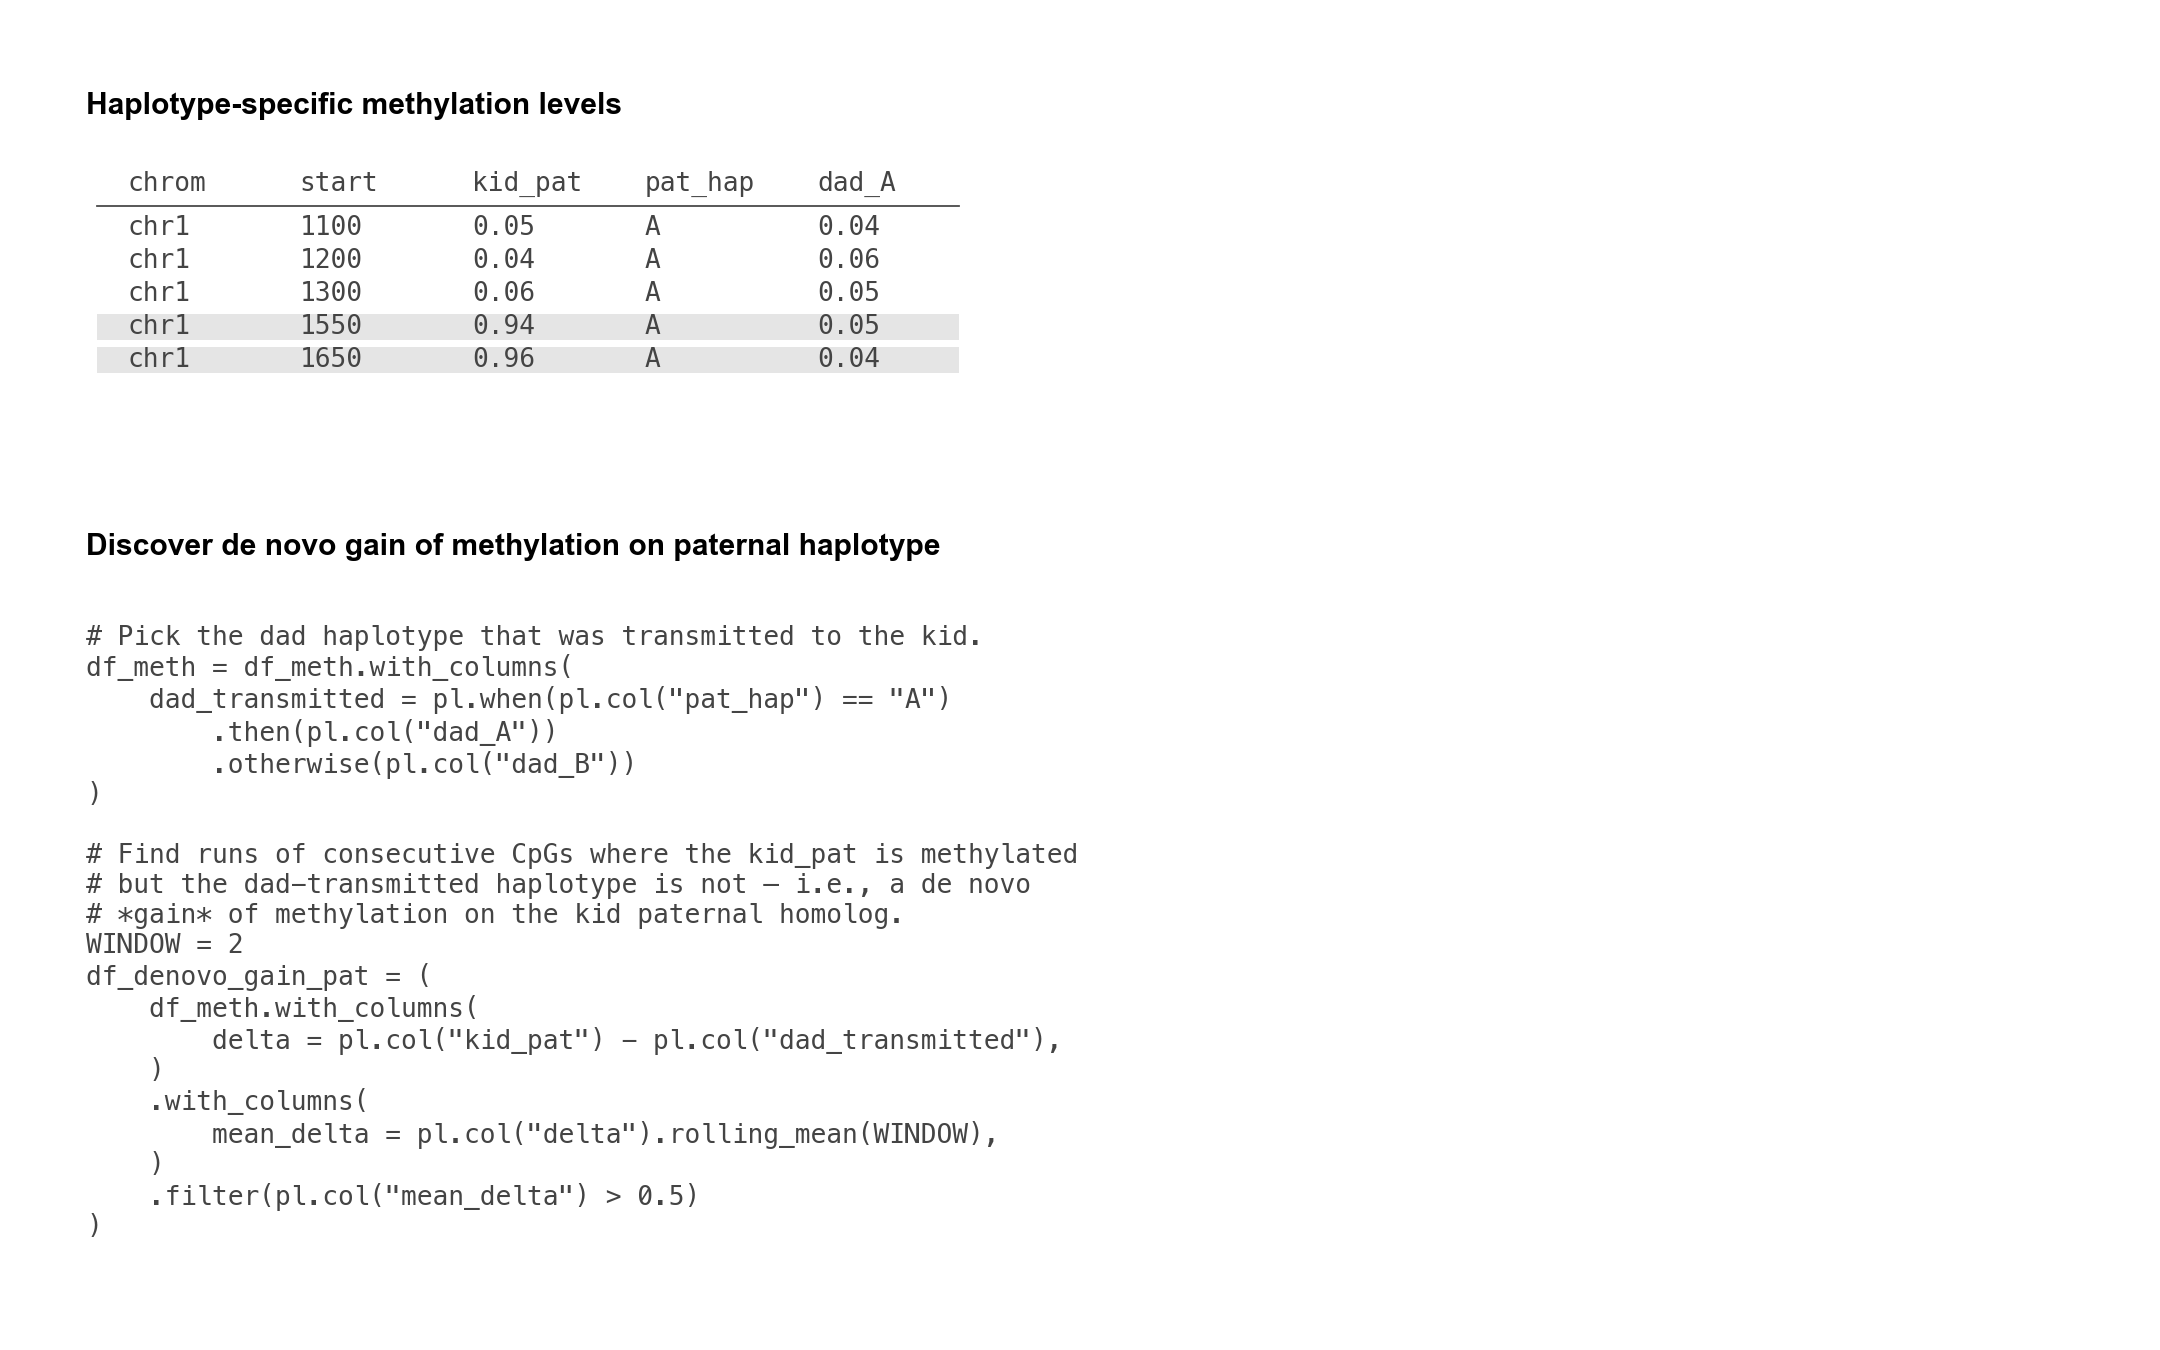
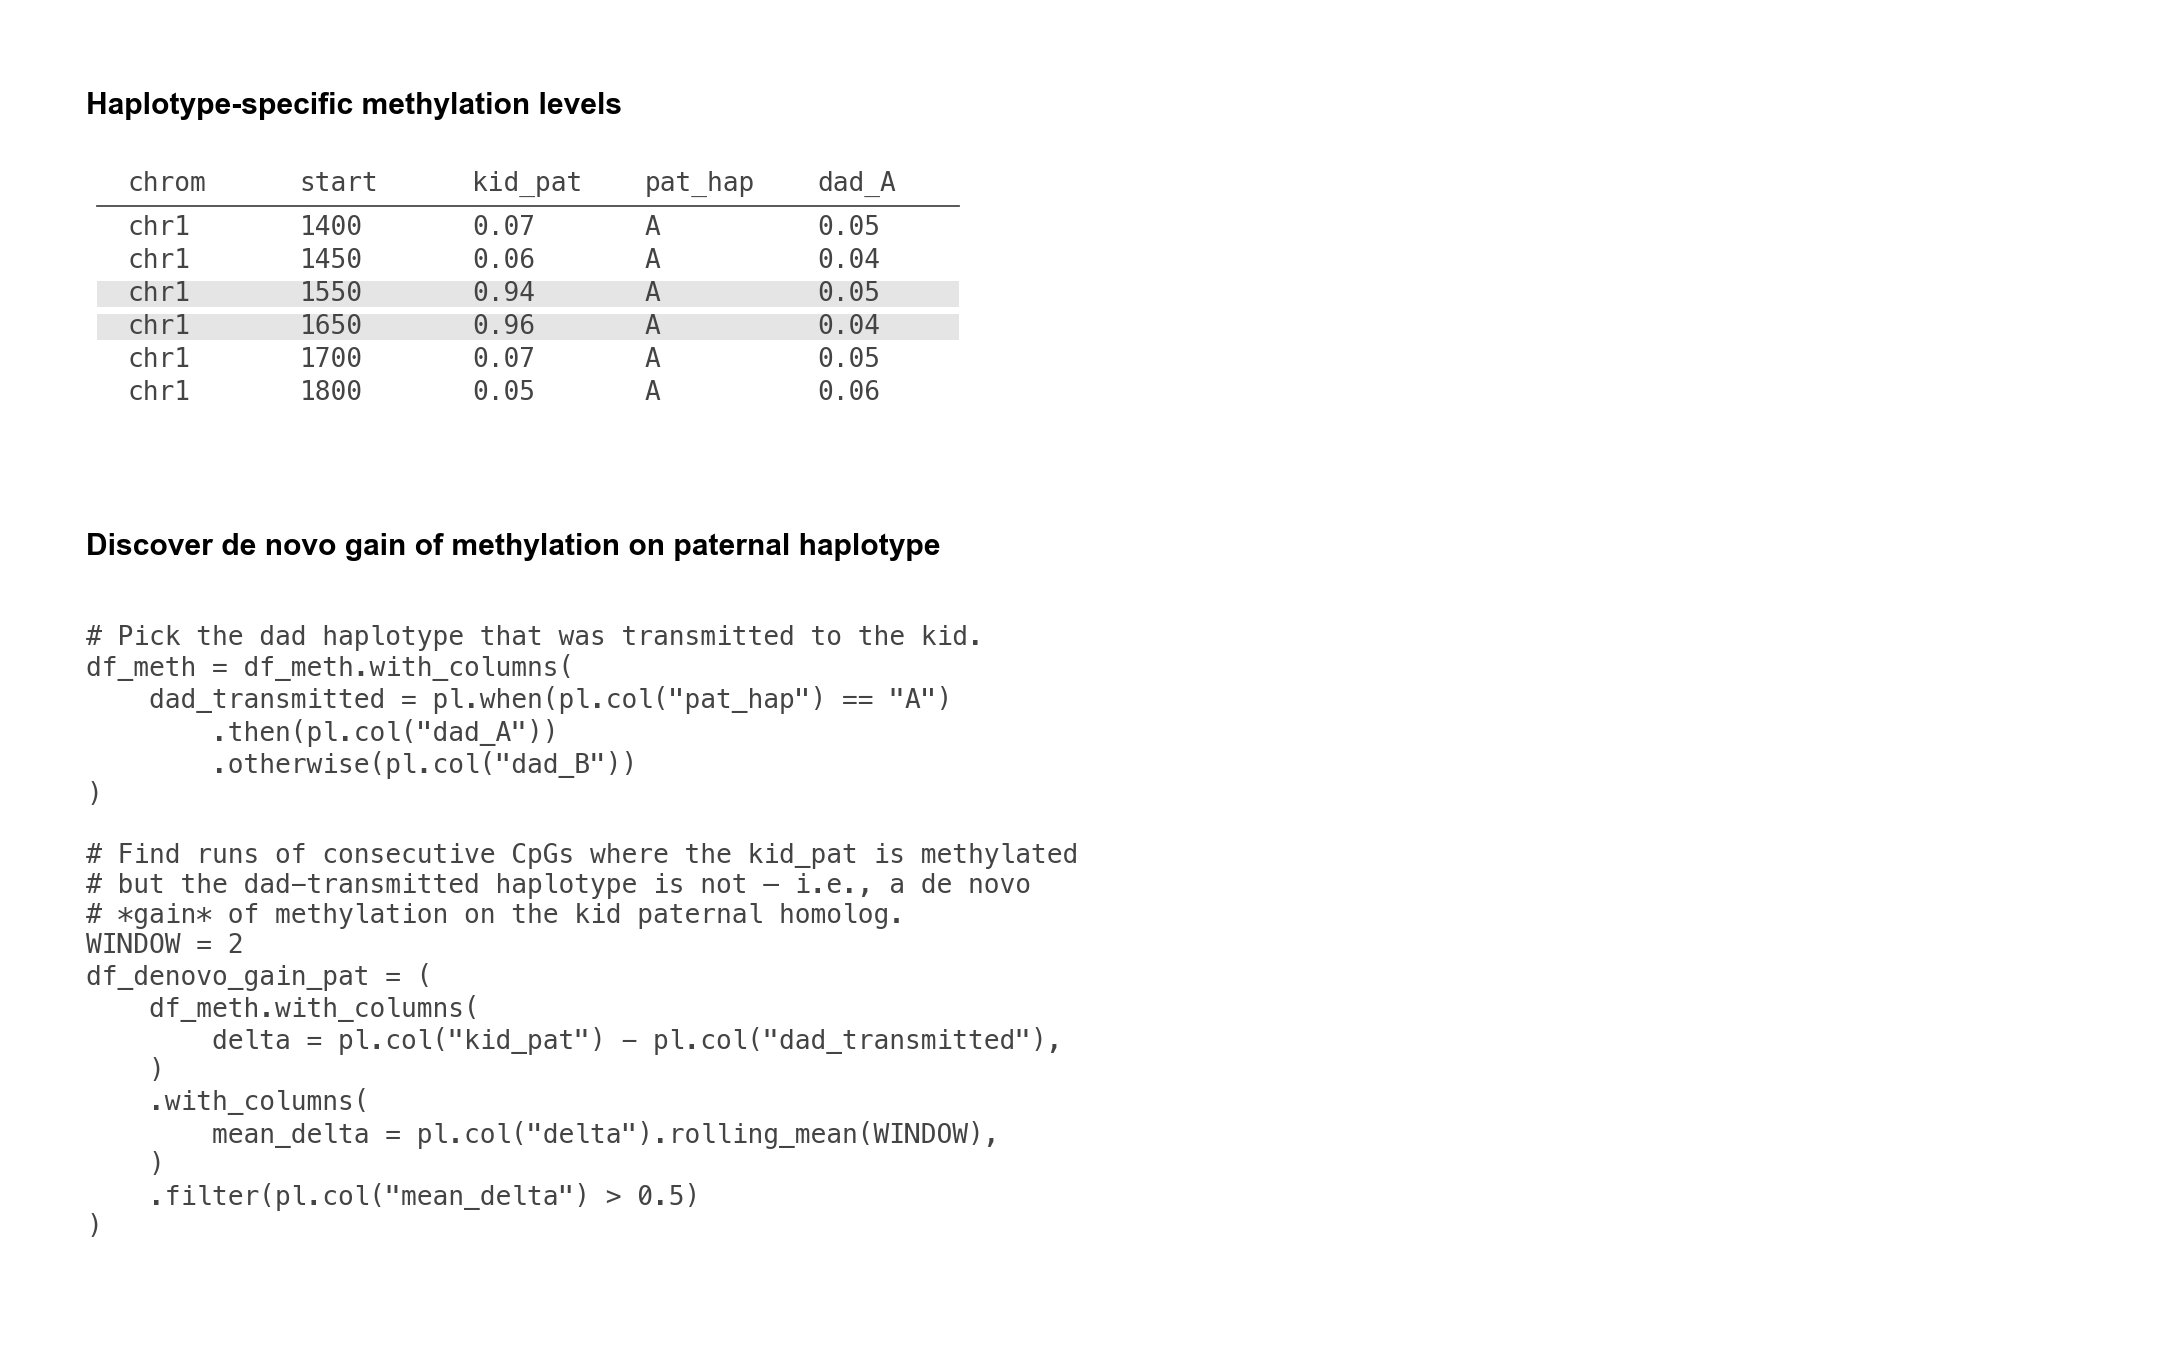
Wiki motivation: extend trio table rows so highlighted rows read as discoveries
The de novo methylation table and the compound het meth + genotype
tables previously had every (or nearly every) row highlighted, which
made the highlighted rows read as the entire dataset rather than as
the discovered locus inside a baseline window. Pad each table with
non-discovery rows on either side of the highlight, and update the
highlight index sets accordingly.

- DENOVO_TABLE_ROWS: 5 -> 6 rows; introduce DENOVO_TABLE_HIGHLIGHT={2,3}
  (2 baseline / 2 discovery / 2 baseline) and use it from both
  render_trio_denovo_meth_table and render_trio_denovo_bed.
- COMPOUND_METH_ROWS: 3 -> 7 rows; highlight {2,3,4} (2 / 3 / 2).
- COMPOUND_GENO_ROWS: 1 -> 5 rows; highlight {2}; the 4 baseline SNVs
  carry an ALT on dad_B that the kid does not inherit (kid_pat=0),
  contrasting with the discovery row where the ALT is on dad_A and is
  inherited.
- render_trio_compound_het_tables now computes METH_CONTENT_BOTTOM_FRAC
  (and figure height) from the meth row count so the geno table no
  longer overlaps when extra meth rows are added; the wiki renderer
  (render_trio_compound_het_bed) was already row-count-agnostic.
- Add render_rebucket_panel: a small two-sub-table cartoon used by
  Fig 3 to illustrate the hap1/hap2 -> pat/mat + founder-letter
  relabel from the wiki "Relabelling per-CpG methylation" section.
  Pure addition; not wired into the wiki.
- Regenerate trio_denovo_bed.png and trio_compound_het_bed.png so the
  wiki PNGs match the new row data.
[…]

Changed region(s): [[0.031, 0.1867, 0.4653, 0.3111]]

diff --git a/wiki/motivation/trio_discovery.py b/wiki/motivation/trio_discovery.py
@@ -430,12 +430,14 @@ def build(scenario: Scenario, label_fontsize: int = 16,
 DENOVO_TABLE_TITLE = "Haplotype-specific methylation levels"
 DENOVO_TABLE_COLS = ("chrom", "start", "kid_pat", "pat_hap", "dad_A")
 DENOVO_TABLE_ROWS = [
-    ("chr1", "1100", "0.05", "A", "0.04"),
-    ("chr1", "1200", "0.04", "A", "0.06"),
-    ("chr1", "1300", "0.06", "A", "0.05"),
+    ("chr1", "1400", "0.07", "A", "0.05"),
+    ("chr1", "1450", "0.06", "A", "0.04"),
     ("chr1", "1550", "0.94", "A", "0.05"),
     ("chr1", "1650", "0.96", "A", "0.04"),
+    ("chr1", "1700", "0.07", "A", "0.05"),
+    ("chr1", "1800", "0.05", "A", "0.06"),
 ]
+DENOVO_TABLE_HIGHLIGHT = {2, 3}
 DENOVO_CODE_TITLE = "Discover de novo gain of methylation on paternal haplotype"
 DENOVO_CODE = (
     '# Pick the dad haplotype that was transmitted to the kid.\n'
@@ -474,7 +476,7 @@ def render_trio_denovo_meth_table(out_path: Path | None = None,
     _draw_simple_table(
         ax, DENOVO_TABLE_COLS, DENOVO_TABLE_ROWS,
         title=DENOVO_TABLE_TITLE if show_title else "",
-        highlight_rows={3, 4},
+        highlight_rows=DENOVO_TABLE_HIGHLIGHT,
         bottom_rule=False,
         col_dx=col_dx,
         cell_fontsize=cell_fontsize,
@@ -616,7 +618,7 @@ def render_trio_denovo_bed(out_path: Path | None = None):
     _draw_simple_table(
         ax_meth, DENOVO_TABLE_COLS, DENOVO_TABLE_ROWS,
         title=DENOVO_TABLE_TITLE,
-        highlight_rows={3, 4},
+        highlight_rows=DENOVO_TABLE_HIGHLIGHT,
         bottom_rule=False,
     )
 
@@ -706,19 +708,27 @@ COMPOUND_METH_COLS = ("chrom", "start",
                       "kid_mat", "mat_hap",
                       "mom_C", "mom_D")
 COMPOUND_METH_ROWS = [
+    ("chr1", "0900", "0.06", "C", "0.07", "0.05"),
+    ("chr1", "1000", "0.05", "C", "0.06", "0.04"),
     ("chr1", "1100", "0.94", "C", "0.93", "0.06"),
     ("chr1", "1200", "0.96", "C", "0.95", "0.05"),
     ("chr1", "1300", "0.91", "C", "0.92", "0.04"),
+    ("chr1", "1400", "0.04", "C", "0.05", "0.06"),
+    ("chr1", "1500", "0.06", "C", "0.04", "0.05"),
 ]
-COMPOUND_METH_HIGHLIGHT = {0, 1, 2}
+COMPOUND_METH_HIGHLIGHT = {2, 3, 4}
 
 COMPOUND_GENO_TITLE = "Phased genotypes"
 COMPOUND_GENO_COLS = ("chrom", "pos",
                       "kid_pat", "dad_A", "dad_B")
 COMPOUND_GENO_ROWS = [
+    ("chr1", "0500", "0", "0", "1"),
+    ("chr1", "0800", "0", "0", "1"),
     ("chr1", "1420", "1", "1", "0"),
+    ("chr1", "2000", "0", "0", "1"),
+    ("chr1", "2300", "0", "0", "1"),
 ]
-COMPOUND_GENO_HIGHLIGHT = {0}
+COMPOUND_GENO_HIGHLIGHT = {2}
 
 COMPOUND_CODE_TITLE = "Discover compound genetic-epigenetic heterozygous locus"
 COMPOUND_CODE = (
@@ -820,19 +830,23 @@ def render_trio_compound_het_tables(out_path: Path | None = None,
                                      fig_width: float = 12.0,
                                      trim_whitespace: bool = False):
     """Methylation + phased-genotype tables only (no polars-query subpanel)."""
-    FIG_W, FIG_H = fig_width, 5.0
+    TABLE_H_IN = 2.04
+    # _draw_simple_table places the header at axes-y 0.72 and rows below it
+    # at row_dy=0.09. The bottom of the last data row therefore sits at
+    # axes-y = 0.565 - (n-1)*0.09; convert to a fraction of TABLE_H_IN.
+    n_meth = len(COMPOUND_METH_ROWS)
+    METH_CONTENT_BOTTOM_FRAC = max(0.025, 0.565 - (n_meth - 1) * 0.09)
+    GENO_CONTENT_TOP_FRAC = 0.78
+    VISIBLE_GAP_IN = 0.15
+    # Grow the figure if the meth content extends below the original 5-row
+    # budget, so the geno table still has room beneath it.
+    extra_meth_in = max(0.0, (0.205 - METH_CONTENT_BOTTOM_FRAC)) * TABLE_H_IN
+    FIG_W = fig_width
+    FIG_H = 5.0 + extra_meth_in
     fig = plt.figure(figsize=(FIG_W, FIG_H))
     LEFT_IN, RIGHT_IN = 0.04 * FIG_W, 0.98 * FIG_W
     TOP_IN = FIG_H - 0.06 * FIG_H
     BOTTOM_IN = 0.04 * FIG_H
-
-    TABLE_H_IN = 2.04
-    # _draw_simple_table places the header at axes-y 0.72 and rows below it
-    # at row_dy=0.09. With 5 data rows the last cell-row sits at y≈0.24, so
-    # content extends down to ~y=0.195; the header top sits at ~y=0.78.
-    METH_CONTENT_BOTTOM_FRAC = 0.195
-    GENO_CONTENT_TOP_FRAC = 0.78
-    VISIBLE_GAP_IN = 0.15
     width_in = RIGHT_IN - LEFT_IN
 
     def add_axes_in(left_in, bottom_in, w_in, h_in):
@@ -866,6 +880,97 @@ def render_trio_compound_het_tables(out_path: Path | None = None,
     )
 
     out = out_path if out_path is not None else OUT / "trio_compound_het_tables.png"
+    _save_fig(fig, out, trim_whitespace=trim_whitespace)
+    plt.close(fig)
+    print(f"[scratch] Wrote {out}")
+
+
+# Rebucket panel: shows the per-CpG methylation values of one kid first
+# under the arbitrary hap1/hap2 partition produced by hiphase, then under
+# the founder-aware (pat / mat / founder-letter) labels produced by Step
+# 3's relabel — the literal "relabel, don't recompute" message of the
+# wiki section "Relabelling per-CpG methylation". Same numerical values
+# in both sub-tables; only the column names change.
+REBUCKET_TOP_COLS = ("chrom", "start", "Kid1_hap1", "Kid1_hap2")
+REBUCKET_BOTTOM_COLS = ("chrom", "start",
+                         "Kid1_pat", "pat_hap",
+                         "Kid1_mat", "mat_hap")
+REBUCKET_ROWS_TOP = [
+    ("chr1", "1100", "0.05", "0.93"),
+]
+REBUCKET_ROWS_BOTTOM = [
+    ("chr1", "1100", "0.05", "A", "0.93", "C"),
+]
+
+
+def render_rebucket_panel(out_path: Path | None = None,
+                          show_title: bool = True,
+                          fig_width: float = 8.0,
+                          col_dx: float = 0.15,
+                          cell_fontsize: float = 10.5,
+                          trim_whitespace: bool = False) -> None:
+    """Two stacked sub-tables joined by a downward arrow: same per-CpG
+    methylation values, first under hiphase's arbitrary hap1/hap2 labels,
+    then under founder-aware (pat/mat + founder-letter) labels.
+
+    Used as the "rebucketing" panel in Fig 3 of the manuscript; corresponds
+    to the wiki section
+    `wiki/pedigree_wise_workflow/founder_phased_methylation/founder_phased_methylation.md`
+    "Relabelling per-CpG methylation".
+    """
+    fig_h = 4.0
+    fig = plt.figure(figsize=(fig_width, fig_h))
+    LEFT = 0.04
+    WIDTH = 0.94
+    TOP_H = 0.42
+    BOTTOM_H = 0.42
+    TOP_BOTTOM = 1.0 - TOP_H - 0.02       # top subtable bottom edge
+    BOT_BOTTOM = 0.04                      # bottom subtable bottom edge
+    ax_top = fig.add_axes([LEFT, TOP_BOTTOM, WIDTH, TOP_H])
+    ax_bot = fig.add_axes([LEFT, BOT_BOTTOM, WIDTH, BOTTOM_H])
+
+    title_top = "Per-CpG methylation under hiphase hap1/hap2 partition" if show_title else ""
+    title_bot = "After relabelling to founder-aware labels (pat/mat + founder letter)" if show_title else ""
+
+    _draw_simple_table(
+        ax_top, REBUCKET_TOP_COLS, REBUCKET_ROWS_TOP,
+        title=title_top,
+        bottom_rule=False,
+        col_dx=col_dx,
+        cell_fontsize=cell_fontsize,
+    )
+    _draw_simple_table(
+        ax_bot, REBUCKET_BOTTOM_COLS, REBUCKET_ROWS_BOTTOM,
+        title=title_bot,
+        bottom_rule=False,
+        col_dx=col_dx,
+        cell_fontsize=cell_fontsize,
+    )
+
+    # Downward arrow between the two sub-tables (figure-level).
+    arrow_x = LEFT + 0.10
+    arrow_y_tail = TOP_BOTTOM - 0.005
+    arrow_y_head = BOT_BOTTOM + BOTTOM_H + 0.005
+    fig.patches.append(
+        plt.matplotlib.patches.FancyArrow(
+            arrow_x, arrow_y_tail,
+            0.0, arrow_y_head - arrow_y_tail,
+            width=0.002, head_width=0.012, head_length=0.012,
+            length_includes_head=True,
+            color=COLOR_NEUTRAL,
+            transform=fig.transFigure,
+            figure=fig,
+        )
+    )
+    fig.text(
+        arrow_x + 0.02, (arrow_y_tail + arrow_y_head) / 2,
+        "relabel using bit-vector match (Fig 3B)\n"
+        "+ founder-letter map (Fig 3A)",
+        ha="left", va="center", fontsize=cell_fontsize - 1,
+        color=COLOR_NEUTRAL, style="italic",
+    )
+
+    out = out_path if out_path is not None else OUT / "trio_rebucket_panel.png"
     _save_fig(fig, out, trim_whitespace=trim_whitespace)
     plt.close(fig)
     print(f"[scratch] Wrote {out}")
